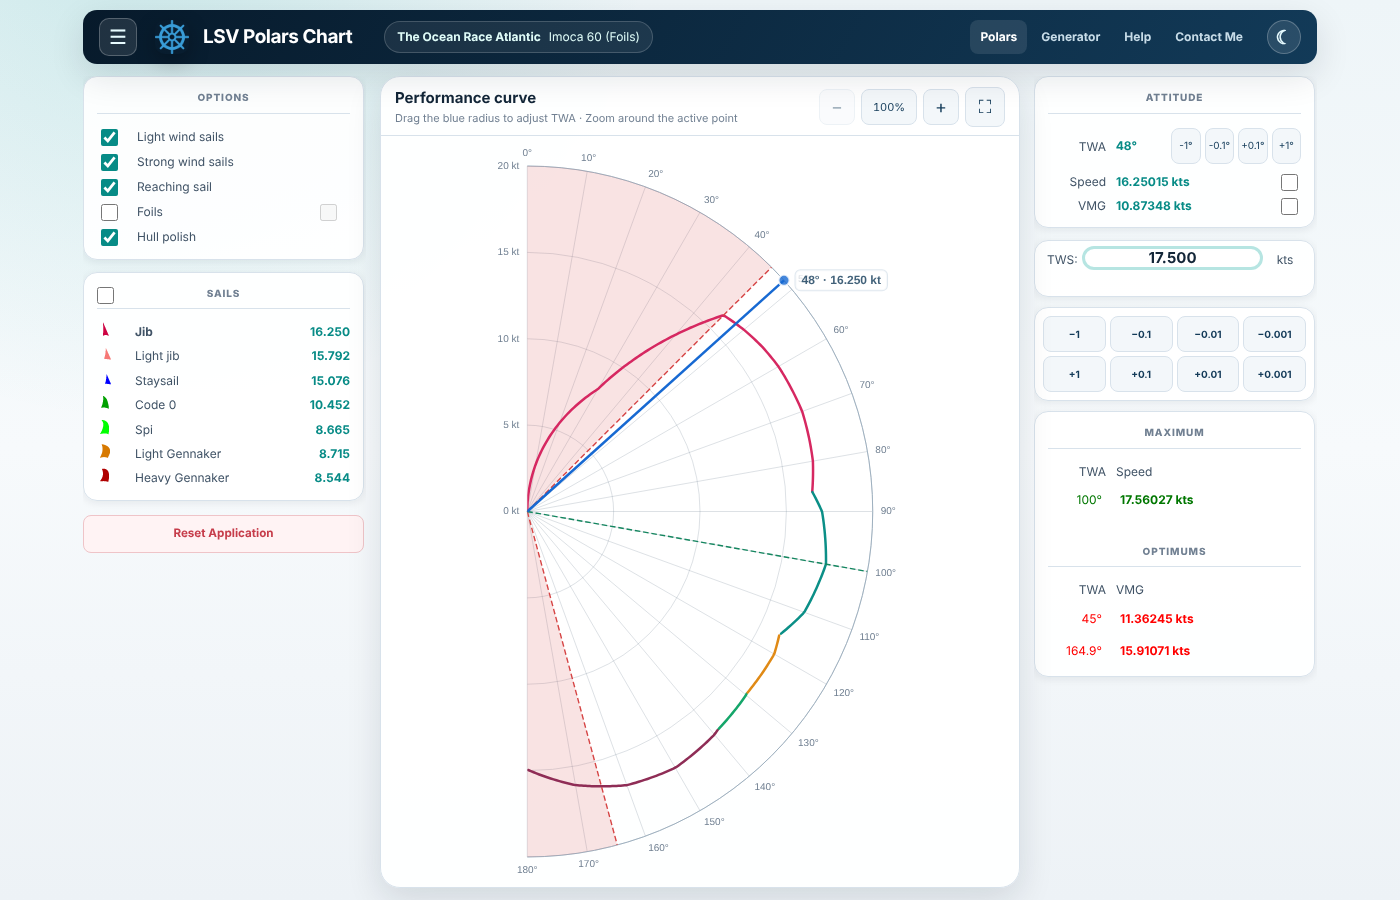
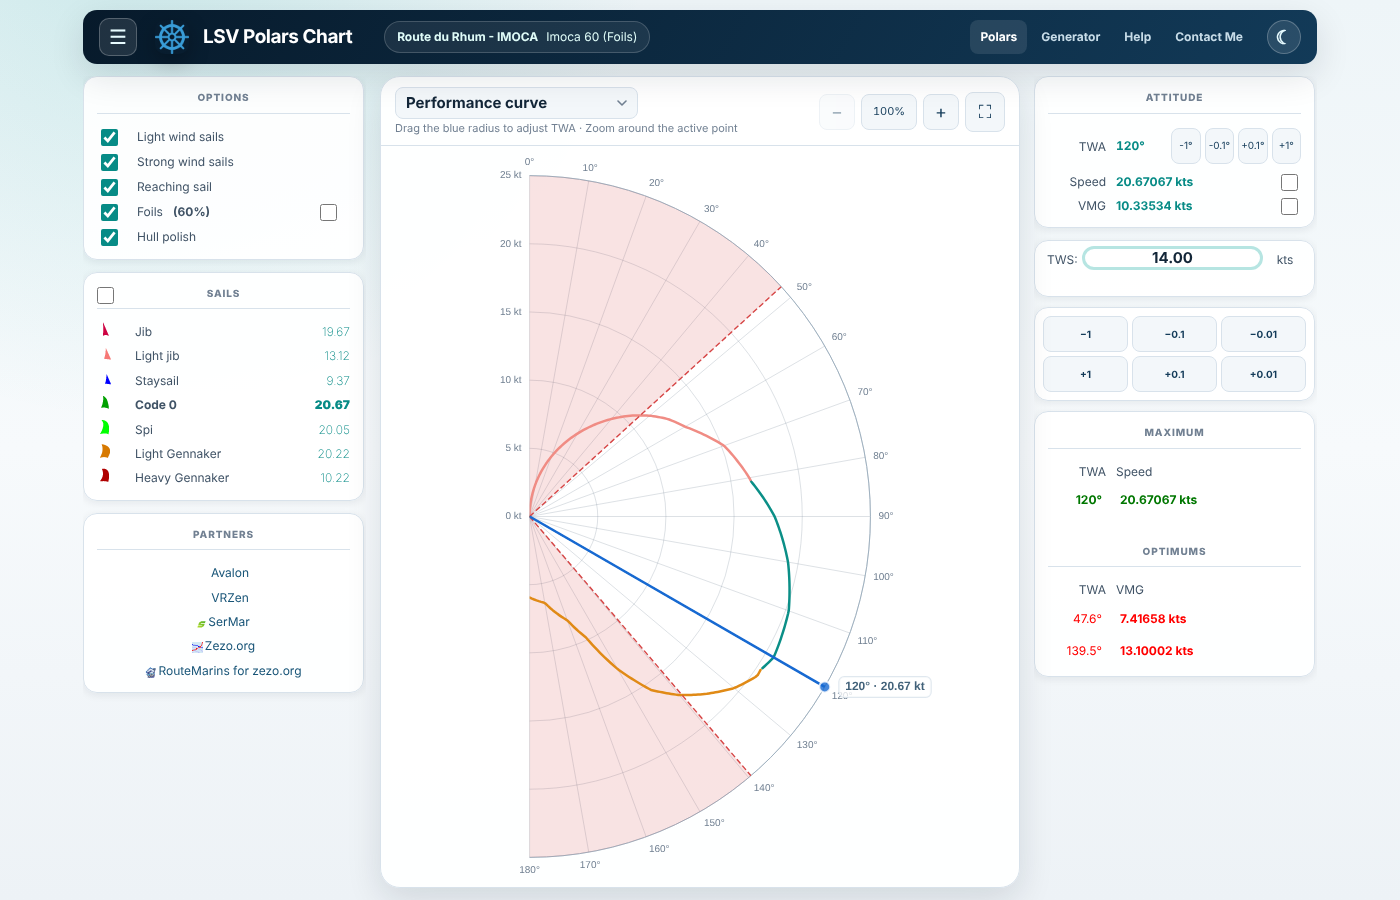
Release 6.1.9
Bump the application version to 6.1.9 and list the changes since 6.1.8 in
the release notes: chart views, magnifying zoom, sail overlaps, 0.1° curves,
burger drawer layout, bold fastest sail, speed decimals, removed trackers.

Help: remove the Facebook Page link, add a screenshot for each chart view
(day and night), move Partners under the Sails and Reset Application into
the races drawer, as in the application. README: refresh the main
screenshots and add a "What's new in 6.1.9" section with the chart views.

Claude-Session: https://claude.ai/code/session_013c2aNT7w3GKW8jR3nvFoCz

diff --git a/help/chart_chart.htm b/help/chart_chart.htm
@@ -85,13 +85,23 @@
 				<p>The selector in the chart header, set to <b>Performance curve</b> by default, switches the chart between six views of the same polar. The chosen view is remembered in this browser.</p>
 				<ul>
 					<li><b>Performance curve</b>: the polar chart on a half disc, with its zoom.</li>
-					<li><b>Speed by TWA</b>: boat speed against TWA on straight axes, colored by the best sail. Small differences and local peaks are easier to read. Where another sail overlaps the best one, within the sail change tolerance of the boat (1.4 % for most boats), the curve is dashed with both colors; the tooltip and the active point label list these sails with their gap.</li>
-					<li><b>VMG by TWA</b>: VMG against TWA, with the upwind and downwind optimums marked.</li>
-					<li><b>Best sail map (TWA &times; TWS)</b>: one cell per TWA and TWS, colored by the best sail and shaded by speed. When the foils overlay is checked, a yellow outline marks the cells where the foils are active (&laquo;&nbsp;Foils active&nbsp;&raquo; in the legend). Gray cells are where the polar gives no speed. Two red dashed lines mark the best VMG upwind and downwind angle for each TWS, and the angles beyond them are grayed out. Hover a cell to see its sail, its speed and the best VMG angles for that TWS. Click or drag on the map to set both the TWA and the TWS.</li>
-					<li><b>Gap to the best sail</b>: for each sail available with your options, its speed loss in % against the fastest sail. The sail changes stand out.</li>
-					<li><b>Polars by TWS</b>: the polar for the current TWS, in blue, over the polars at 10, 15, 20 and 25 kt.</li>
 				</ul>
+				<p class="clear"><img src="img/135.png" class="themed flt_right"></p>
+				<p><b>Speed by TWA</b>: boat speed against TWA on straight axes, colored by the best sail. Small differences and local peaks are easier to read.</p>
+				<p class="gray">Where another sail overlaps the best one, within the sail change tolerance of the boat (1.4&nbsp;% for most boats), the curve is dashed with both colors. Only the sails allowed by your options are taken into account. The tooltip and the active point label list these sails with their gap.</p>
+				<p class="clear"><img src="img/136.png" class="themed flt_right"></p>
+				<p><b>VMG by TWA</b>: VMG against TWA, with the upwind and downwind optimums marked.</p>
+				<p class="clear"><img src="img/137.png" class="themed flt_right"></p>
+				<p><b>Best sail map (TWA &times; TWS)</b>: one cell per TWA and TWS, colored by the best sail and shaded by speed.</p>
+				<p class="gray">When the foils overlay is checked, a yellow outline marks the cells where the foils are active (&laquo;&nbsp;Foils active&nbsp;&raquo; in the legend). Gray cells are where the polar gives no speed. Two red dashed lines mark the best VMG upwind and downwind angle for each TWS, and the angles beyond them are grayed out.</p>
+				<p class="gray">Hover a cell to see its sail, its speed and the best VMG angles for that TWS. Click or drag on the map to set both the TWA and the TWS.</p>
+				<p class="clear"><img src="img/138.png" class="themed flt_right"></p>
+				<p><b>Gap to the best sail</b>: for each sail available with your options, its speed loss in % against the fastest sail. The sail changes stand out.</p>
+				<p class="clear"><img src="img/139.png" class="themed flt_right"></p>
+				<p><b>Polars by TWS</b>: the polar for the current TWS, in blue, over the polars at 10, 15, 20 and 25 kt.</p>
+				<p class="clear"></p>
 				<p>In every view, the blue line marks the current TWA: drag it, or click the chart, to change the TWA. The zoom works in every view except the Best sail map: in Speed by TWA, VMG by TWA and Gap to the best sail, both axes narrow around the active point; in Polars by TWS, the chart is magnified around the active point like the Performance curve.</p>
+				<p>The curves are drawn every 0.1° of TWA, at every zoom level, so small changes of the best sail are not smoothed out.</p>
 				<p class="clear"></p>
 			</div>
 

diff --git a/help/chart_leftpanels.htm b/help/chart_leftpanels.htm
@@ -61,8 +61,8 @@
 
 			<div class="contentframe" id="_layout">
 				<h5>Layout</h5>
-				<p>The column at the left of the chart holds the boat setup: the <a href="#_options" class="innerlnk">Options</a> subscribed for the race, the <a href="#_sails" class="innerlnk">Sails</a> and the <a href="#_resetapp" class="innerlnk">Reset Application</a> button.</p>
-				<p>The race information (race name, route, boat, countdown, partners and version) is now in the <a href="chart_raceselector.htm#_race_info" class="innerlnk">Races Drawer</a>.</p>
+				<p>The column at the left of the chart holds the boat setup: the <a href="#_options" class="innerlnk">Options</a> subscribed for the race, the <a href="#_sails" class="innerlnk">Sails</a> and, below them, the <a href="#_external_lnks" class="innerlnk">Partners</a> links.</p>
+				<p>The race information (race name, route, boat, countdown and version) and the <a href="chart_raceselector.htm#_resetapp" class="innerlnk">Reset Application</a> button are in the <a href="chart_raceselector.htm#_drawer" class="innerlnk">Races Drawer</a>.</p>
 			</div>
 
 			<div class="contentframe" id="_options">
@@ -101,7 +101,7 @@
 					<b>Light Jib</b> and <b>Light Gennaker</b> come with the <a href="#_options" class="innerlnk"><i>Light wind sails</i></a> pack.<br/>
 					<b>Staysail</b> and <b>Heavy Gennaker</b> come with the <a href="#_options" class="innerlnk"><i>Strong wind sails</i></a> pack.<br/>
 					<b>Code 0</b> come with the <a href="#_options" class="innerlnk"><i>Reaching sail</i></a> pack.</p>
-				<p>All sails speeds are displayed on the right column of the panel, and the best active sail is showing in bold.</p>
+				<p>All sails speeds are displayed on the right column of the panel. Only the fastest active sail is shown in bold, the other speeds are shown in a light font. The speeds use the number of decimals set with the <code>nbdigits</code> URL parameter (2 by default), like the chart labels and tooltips.</p>
 				<p>The color of the sail icon on the left of the panel represents the color used on the chart to plot data for this sail.</p>
 				<hr/>
 				<p><img src="img/147.png" class="themed flt_right"></p>
@@ -116,15 +116,12 @@
 				<p class="clear"></p>
 			</div>
 
-			<div class="contentframe" id="_resetapp">
-				<h5>Reset Application</h5>
-				<p><img src="img/146.png" class="themed flt_right"></p>
-				<p>This button allows to clean the entiere local storage, and get the application from a fully fresh reloading.</p>
-				<p>You normally don't need to use it, but it happened in the past that after a new version is published, data stored became irrelevant
-					to what the new Chart application understood.</p>
-				<p>The thing is, such data is not much worth the effort to build a migration mechanism to keep data integrity at any cost.<br/>
-					So if you observe that the Chart application is frozen at startup, it's probably due to such out-of-sync issues.</p>
+			<div class="contentframe" id="_external_lnks">
+				<h5>Partners</h5>
+				<p><img src="img/127.png" class="themed flt_right"></p>
+				<p>This panel provides direct links to partner applications: <a href="https://www.avalon-routing.com/forumvirtuel/index.php" target="_blank" rel="noopener">Avalon</a>, <a href="https://vrzen.org" target="_blank" rel="noopener">VRZen</a>, <a href="https://routeur.sermar.app/" target="_blank" rel="noopener">SerMar</a>, <a href="http://zezo.org/" target="_blank" rel="noopener">Zezo.org</a> and the RouteMarins extension for Zezo.org.</p>
 			</div>
+
 		</div>
 	</article>
 </body>

diff --git a/release_notes.htm b/release_notes.htm
@@ -65,6 +65,23 @@
 			<div class="contentframe" id="chart">
 				<h3><b>Polars Chart Application</b></h3>
 
+				<h5>6.1.9</h5>
+				<ul>
+					<li><b>Feature:</b> New chart view selector, with five more views of the same polar: Speed by TWA, VMG by TWA, Best sail map (TWA &times; TWS), Gap to the best sail and Polars by TWS. The chosen view is remembered</li>
+					<li><b>Feature:</b> Speed by TWA shows where another allowed sail is within the boat's sail change tolerance (1.4&nbsp;% for most boats), with a dashed two-color curve</li>
+					<li><b>Feature:</b> The Best sail map shows the foils area, the cells with no speed and the best VMG limits, and sets both the TWA and the TWS when clicked or dragged</li>
+					<li><b>Update:</b> The zoom now works like a magnifying glass around the active point, without distorting the polar, and also zooms the Speed, VMG, Gap and TWS views</li>
+					<li><b>Update:</b> The curves are drawn every 0.1&deg; of TWA at every zoom level, and the TWA window narrows faster at high zoom levels</li>
+					<li><b>Update:</b> The whole Polars page fits on one screen: the race list and race information moved to a drawer opened with the burger button</li>
+					<li><b>Update:</b> Boat options on the left, chart centered in its panel, results on the right; Partners under the Sails and Reset Application at the bottom of the drawer</li>
+					<li><b>Update:</b> TWA buttons stay inside the Attitude panel, TWS minus and plus buttons on two rows</li>
+					<li><b>Update:</b> Only the fastest sail speed is shown in bold in the Sails panel</li>
+					<li><b>Update:</b> Sail and chart speeds follow the chosen number of decimals</li>
+					<li><b>Update:</b> Same compact top bar on every page</li>
+					<li><b>Privacy:</b> Removed Google Analytics and Google AdSense</li>
+					<li><b>Update:</b> Help pages updated with screenshots of the new chart views</li>
+				</ul>
+
 				<h5>6.1.8</h5>
 				<ul>
 					<li><b>Security:</b> Race and boat names received from the server are now escaped before being displayed</li>

diff --git a/help/chart_raceselector.htm b/help/chart_raceselector.htm
@@ -197,12 +197,15 @@
 					display right now".</p>
 			</div>
 
-			<div class="contentframe" id="_external_lnks">
-				<h5>Partners</h5>
-				<p><img src="img/127.png" class="themed flt_right"></p>
-				<p>This panel provides direct links to partner applications: <a href="https://www.avalon-routing.com/forumvirtuel/index.php" target="_blank" rel="noopener">Avalon</a>, <a href="https://vrzen.org" target="_blank" rel="noopener">VRZen</a>, <a href="https://routeur.sermar.app/" target="_blank" rel="noopener">SerMar</a>, <a href="http://zezo.org/" target="_blank" rel="noopener">Zezo.org</a> and the RouteMarins extension for Zezo.org.</p>
+			<div class="contentframe" id="_resetapp">
+				<h5>Reset Application</h5>
+				<p><img src="img/146.png" class="themed flt_right"></p>
+				<p>This button, at the bottom of the <a href="#_drawer" class="innerlnk">Races Drawer</a> just above the <a href="#_version" class="innerlnk">Version</a>, allows to clean the entiere local storage, and get the application from a fully fresh reloading.</p>
+				<p>You normally don't need to use it, but it happened in the past that after a new version is published, data stored became irrelevant
+					to what the new Chart application understood.</p>
+				<p>The thing is, such data is not much worth the effort to build a migration mechanism to keep data integrity at any cost.<br/>
+					So if you observe that the Chart application is frozen at startup, it's probably due to such out-of-sync issues.</p>
 			</div>
-
 			<div class="contentframe" id="_version">
 				<h5>Version</h5>
 				<p><img src="img/125.png" class="themed flt_right"></p>

diff --git a/help/index.htm b/help/index.htm
@@ -60,8 +60,7 @@
 				<h5 class="hidden">Definitions</h5>
 				<p>While reading these pages, you may encounter unknown concepts and/or acronyms.<br/>
 					If you feel the need, visit the <a href="definitions.htm" class="innerlnk">Definitions</a> page.<br/></p>
-				<p>If your question remains unanswered after reading this section, you can still ask me directly using the <a href="../contact.php">Contact&nbsp;Me&nbsp;Form</a>
-					or through the dedicated <a about="_blank" href="https://fb.me/VRPolarsChart/">Facebook Page</a> (Insults, spam and other off-topic requests will be ignored).</p>
+				<p>If your question remains unanswered after reading this section, you can still ask me directly using the <a href="../contact.php">Contact&nbsp;Me&nbsp;Form</a> (Insults, spam and other off-topic requests will be ignored).</p>
 			</div>
 
 			<div class="contentframe" id="_polars_chart">

diff --git a/index.htm b/index.htm
@@ -27,7 +27,7 @@
 	<script type="text/javascript" src="js/lib/echarts-6.1.0.min.js"				defer ></script>
 	<script type="text/javascript" src="js/polars_views.js?v=1.2.6"				defer ></script>
 	<script type="text/javascript" src="js/polars_echarts.js?v=6.2.7"				defer ></script>
-	<script type="text/javascript" src="js/polars_app.js?v=6.2.0"					defer ></script>
+	<script type="text/javascript" src="js/polars_app.js?v=6.2.1"					defer ></script>
 	<script type="text/javascript" src="js/modern_ui.js?v=1.2.0"					defer ></script>
 </head>
 

diff --git a/js/polars_app.js b/js/polars_app.js
@@ -27,7 +27,7 @@ $(function() {
 //=================================//
 
 var PolarsApp = (function(){
-    var _versions			= { app:"6.1.8", data:{} };
+    var _versions			= { app:"6.1.9", data:{} };
 	var _bInitialized		= false;
 	var _bError				= false;
 	var _checkVersionRate	= 60; //In seconds

diff --git a/README.md b/README.md
@@ -29,17 +29,36 @@ Version 6 introduces a responsive interface designed for desktop, tablet and mob
 
 On a desktop screen, everything fits on one screen:
 - the **top bar** holds the burger button, the current race and boat, the navigation and the day/night theme button,
-- the **left column** holds the boat options, the sails and the Reset button,
-- the **center** shows the polar chart, with its zoom and full screen buttons,
+- the **left column** holds the boat options, the sails (the fastest one in bold) and the partner links,
+- the **center** shows the chart, with its view selector, its zoom and full screen buttons,
 - the **right column** shows the attitude (TWA, speed, VMG), the TWS with its minus and plus buttons on two rows, and the maximum and optimum values.
 
-The race list and the race information (route, boat, countdown, partners, version) open in a drawer, from the burger button or from the current race in the top bar:
+The race list, the race information (route, boat, countdown, version) and the Reset Application button open in a drawer, from the burger button or from the current race in the top bar:
 
 <picture>
   <source media="(prefers-color-scheme: dark)" srcset="docs/screenshots/interface/drawer-night.png">
   <img src="docs/screenshots/interface/drawer-day.png" alt="Races drawer opened from the burger button">
 </picture>
 
+
+### What's new in 6.1.9
+The selector in the chart header switches between six views of the same polar. The Performance curve stays the default view, and the chosen view is remembered.
+
+| Speed by TWA | VMG by TWA | Best sail map (TWA × TWS) |
+| --- | --- | --- |
+| <picture><source media="(prefers-color-scheme: dark)" srcset="docs/screenshots/release-6.1.9/speed-night.png"><img src="docs/screenshots/release-6.1.9/speed-day.png" alt="Speed by TWA view" width="260"></picture> | <picture><source media="(prefers-color-scheme: dark)" srcset="docs/screenshots/release-6.1.9/vmg-night.png"><img src="docs/screenshots/release-6.1.9/vmg-day.png" alt="VMG by TWA view" width="260"></picture> | <picture><source media="(prefers-color-scheme: dark)" srcset="docs/screenshots/release-6.1.9/map-night.png"><img src="docs/screenshots/release-6.1.9/map-day.png" alt="Best sail map view" width="260"></picture> |
+| **Gap to the best sail** | **Polars by TWS** | |
+| <picture><source media="(prefers-color-scheme: dark)" srcset="docs/screenshots/release-6.1.9/gap-night.png"><img src="docs/screenshots/release-6.1.9/gap-day.png" alt="Gap to the best sail view" width="260"></picture> | <picture><source media="(prefers-color-scheme: dark)" srcset="docs/screenshots/release-6.1.9/tws-night.png"><img src="docs/screenshots/release-6.1.9/tws-day.png" alt="Polars by TWS view" width="260"></picture> | |
+
+- **Speed by TWA**: boat speed on straight axes, colored by the best sail. Where another allowed sail stays within the sail change tolerance of the boat (1.4 % for most boats), the curve is dashed with both colors.
+- **VMG by TWA**: VMG against TWA, with the upwind and downwind optimums.
+- **Best sail map**: the best sail for every TWA and TWS, shaded by speed, with the foils area, the cells with no speed and the best VMG limits. Click or drag on the map to set both the TWA and the TWS.
+- **Gap to the best sail**: the speed loss of each available sail against the fastest one.
+- **Polars by TWS**: the current polar over the polars at 10, 15, 20 and 25 kt.
+- **Zoom**: from 100 % to 300 %, like a magnifying glass around the active point, in every view except the best sail map. The curves are drawn every 0.1° of TWA.
+- The fastest sail is the only one in bold in the Sails panel, and the speeds follow the number of decimals set with `nbdigits`.
+
+See the [Release Notes](https://vro.civis.net/polars/release_notes.htm) for the full list.
 
 The **LSV Chart Application** provides an _HTTP GET API_ so you can call it from a third party application or from an VR Dashboard extension.
 

diff --git a/MODERNIZATION.md b/MODERNIZATION.md
@@ -1,4 +1,4 @@
-# LSV TOXCct 6.1.7 — responsive redesign and interactive chart
+# LSV TOXCct 6.1.9 — responsive redesign and interactive chart
 
 ## What changed
 
@@ -17,6 +17,10 @@
 - Focused zoom isolates the active sail curve and marks the actual polar point.
 - A view selector in the chart header keeps the Performance curve as default and adds five views of the same polar: speed by TWA, VMG by TWA, best sail map (TWA × TWS), gap to the best sail and polars by TWS. The current TWA can be dragged in each of them, and every view except the best sail map zooms around the active point.
 - The zoom magnifies the chart around the active point without distorting the polar: 0 kt stays at the origin, the speed rings and their labels follow the zoom, and the foil markers stay on the outer arc.
+- In Speed by TWA, the curve is dashed with two colors where another sail allowed by the options stays within the sail change tolerance of the boat.
+- The curves are drawn every 0.1° of TWA at every zoom level, and the TWA window narrows faster at high zoom levels.
+- The Partners box sits under the Sails, and Reset Application at the bottom of the burger drawer.
+- Only the fastest sail speed is in bold in the Sails panel, and the speeds follow the chosen number of decimals.
 - Persistent light/night theme with automatic system-preference detection and a shared header toggle.
 - ECharts axes, labels, markers and tooltips adapt live to the selected color theme.
 - Help navigation and chart screenshots aligned with the modern interface.
